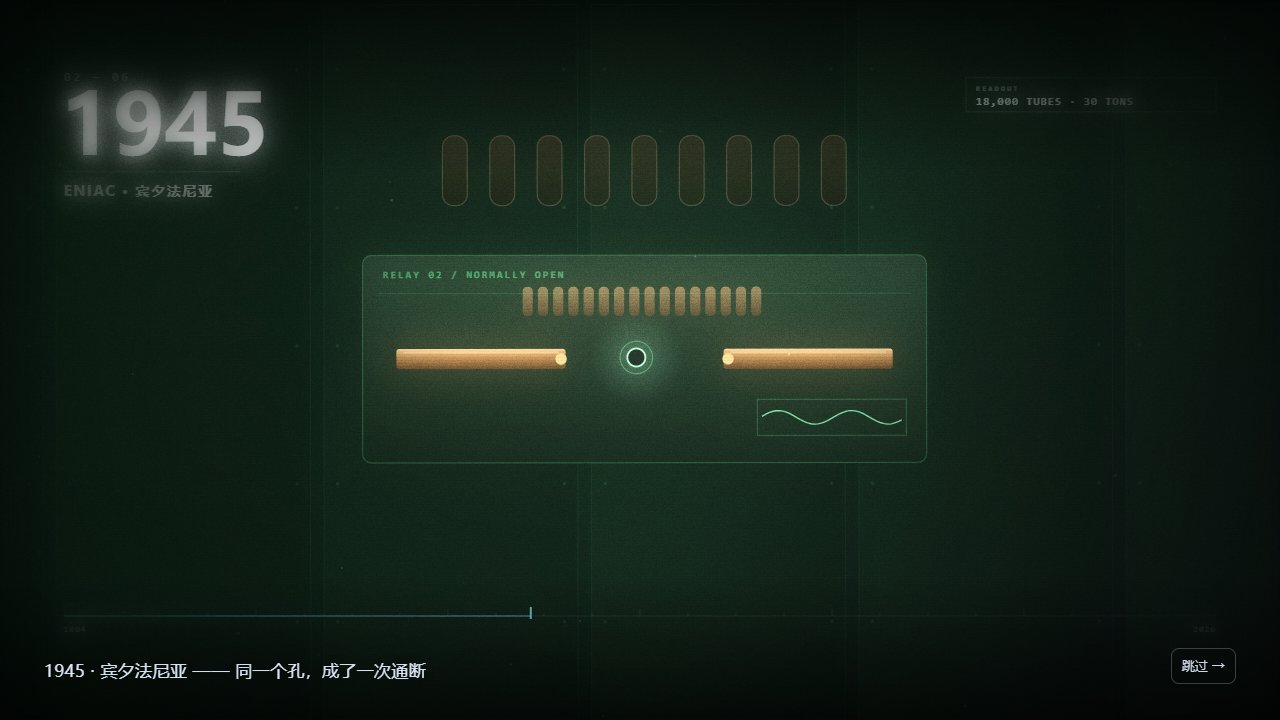
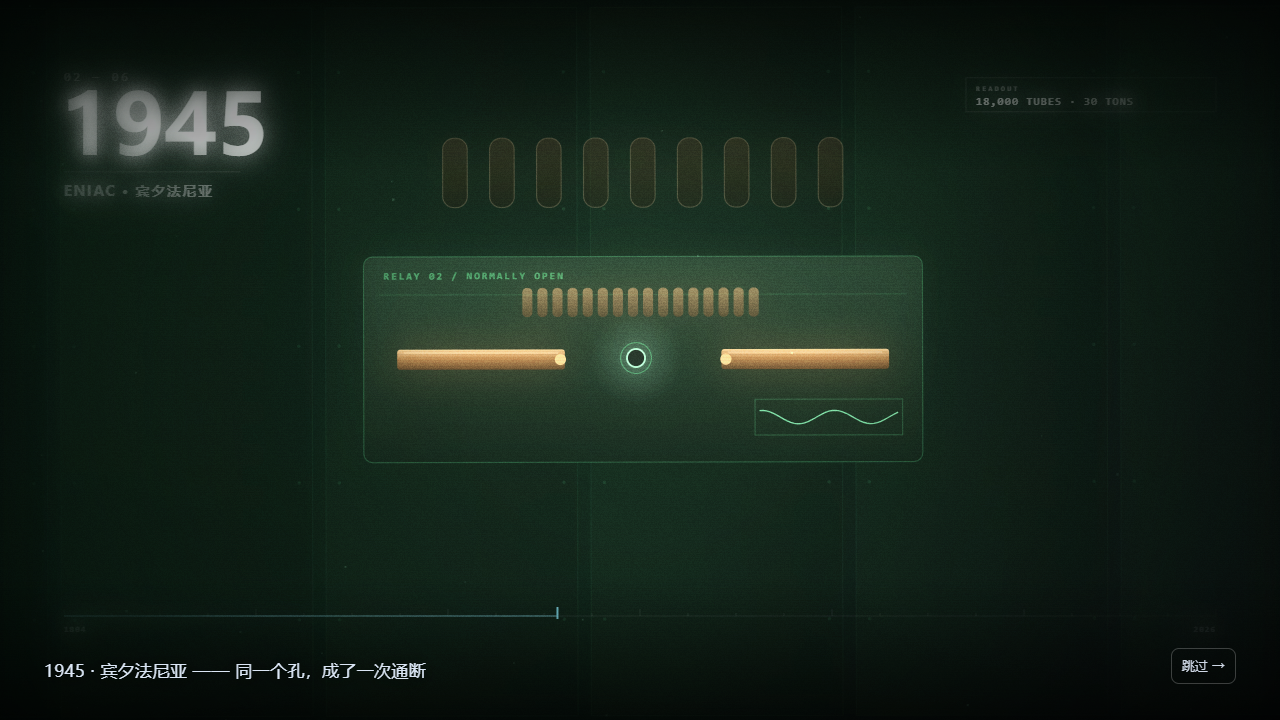
feat(finale): land every cut with a 120ms push-in

diff --git a/docs/index.html b/docs/index.html
@@ -9610,6 +9610,11 @@ body.is-finale #main {
       sceneCtx.rotate((rot * Math.PI) / 180);
       sceneCtx.scale(zoom, zoom);
       sceneCtx.translate(-w / 2, -h / 2);
+      // 每段前 0.12：一次轻微的推入，让硬切有“落地”
+      const entry = easeOut(clamp01(p / 0.12));
+      sceneCtx.translate(w / 2, h / 2);
+      sceneCtx.scale(mix(1.03, 1, entry), mix(1.03, 1, entry));
+      sceneCtx.translate(-w / 2, -h / 2);
       if (index === 5) scenes[index](sceneCtx, w, h, p, pal, hole, prompt);
       else scenes[index](sceneCtx, w, h, p, pal, hole);
       sceneCtx.restore();

diff --git a/js/finale.js b/js/finale.js
@@ -1249,6 +1249,11 @@
       sceneCtx.rotate((rot * Math.PI) / 180);
       sceneCtx.scale(zoom, zoom);
       sceneCtx.translate(-w / 2, -h / 2);
+      // 每段前 0.12：一次轻微的推入，让硬切有“落地”
+      const entry = easeOut(clamp01(p / 0.12));
+      sceneCtx.translate(w / 2, h / 2);
+      sceneCtx.scale(mix(1.03, 1, entry), mix(1.03, 1, entry));
+      sceneCtx.translate(-w / 2, -h / 2);
       if (index === 5) scenes[index](sceneCtx, w, h, p, pal, hole, prompt);
       else scenes[index](sceneCtx, w, h, p, pal, hole);
       sceneCtx.restore();
